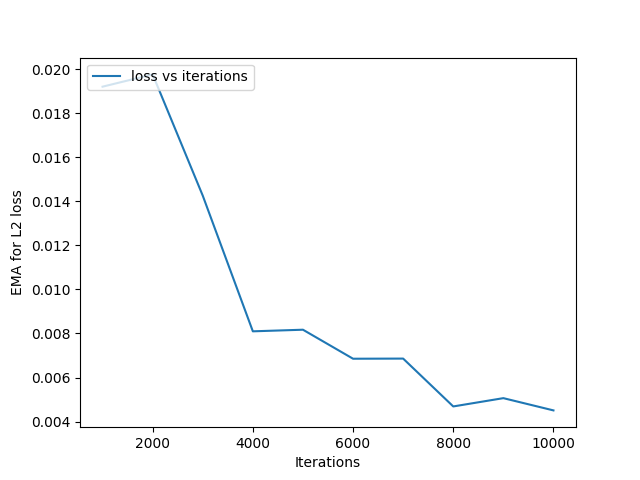
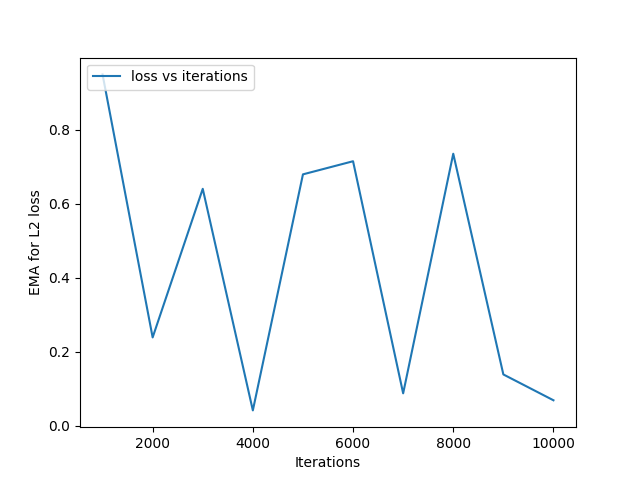
Tried circles dataset with Head-Tail noise model with DDPM. Didnot work. The loss was oscillating , see graphs.

diff --git a/denoising_diffusion_pytorch/denoising_diffusion_pytorch.py b/denoising_diffusion_pytorch/denoising_diffusion_pytorch.py
@@ -7,6 +7,7 @@ from random import random
 from functools import partial
 from collections import namedtuple
 from multiprocessing import cpu_count
+from typing import Union
 
 import numpy as np
 import torch
@@ -323,22 +324,36 @@ class HeadTail(nn.Module):
                                                          nn.Linear(hidden_dim, input_dim, dtype=torch.float64)
                                                          ) for _ in range(time_steps)])
 
-    def forward(self, x, t, self_cond=None):
+    def forward(self, x, t: torch.Tensor, self_cond=None):
         # self_cond is a redundant parameter for compatibility
         # Similar to Impl. in
         # https://github.com/MaximeVandegar/Papers-in-100-Lines-of-Code/blob/main/Deep_Unsupervised_Learning_using_Nonequilibrium_Thermodynamics/diffusion_models.py#L26
         # https://papers-100-lines.medium.com/diffusion-models-from-scratch-tutorial-in-100-lines-of-pytorch-code-5dac9f472f1c
-        x = x.double()
+        assert sum(list(t.shape)) == 1
         assert len(x.shape) == 2
-        t_values = list(t.detach().cpu().numpy())
-        x_out_list = []
+        t_int = t.item()
+        x = x.double()
         h = self.network_head(x)
-        for i, t_val in enumerate(t_values):
-            x_out_single = self.network_tail[t_val](h[i, :])
-            x_out_list.append(x_out_single)
-        x_out_tensor = torch.stack(x_out_list, dim=0)
-        return x_out_tensor
+        out = self.network_tail[t_int](h)
+        return out
 
+
+class SimpleResNet(nn.Module):
+    """
+    Using a simple ResNet model for noise model
+
+    main refs
+    https://blog.paperspace.com/writing-resnet-from-scratch-in-pytorch/
+
+    Unet vs ResNet in image segmentation
+    https://aditi-mittal.medium.com/introduction-to-u-net-and-res-net-for-image-segmentation-9afcb432ee2f
+    """
+
+    def __init__(self, *args, **kwargs):
+        super().__init__(*args, **kwargs)
+
+    def forward(self):
+        pass
 
 
 class Unet2D(nn.Module):
@@ -355,6 +370,13 @@ class Unet2D(nn.Module):
     Articles and Resources about UNet Architecture
     https://medium.com/@kemalpiro/step-by-step-visual-introduction-to-diffusion-models-235942d2f15c
     https://theaisummer.com/diffusion-models/
+
+    Why Unet is used in DDPM models
+    https://huggingface.co/docs/diffusers/api/models/unet
+
+    Unraveling the Temporal Dynamics of the Unet in Diffusion Models
+    https://arxiv.org/pdf/2312.14965.pdf
+
     """
 
     def __init__(
@@ -524,7 +546,8 @@ class Unet2D(nn.Module):
 def extract(a, t, x_shape):
     b, *_ = t.shape
     out = a.gather(-1, t)
-    return out.reshape(b, *((1,) * (len(x_shape) - 1)))
+    final_out = out.reshape(b, *((1,) * (len(x_shape) - 1)))  # added line for debugging
+    return final_out
 
 
 def linear_beta_schedule(timesteps):
@@ -576,9 +599,9 @@ class GaussianDiffusion(nn.Module):
             self,
             noise_model: torch.nn.Module,
             dataset_name: str,
+            objective: str,
             timesteps=1000,
             sampling_timesteps=None,
-            objective='pred_v',
             beta_schedule='sigmoid',
             schedule_fn_kwargs=dict(),
             ddim_sampling_eta=0.,
@@ -602,10 +625,10 @@ class GaussianDiffusion(nn.Module):
             logger.info(f"func. approx. model of class {type(noise_model)} has no "
                         f"random_or_learned_sinusoidal_cond attribute, no assertions to be done")
 
-        self.model = noise_model
+        self.noise_model = noise_model
         self.dataset_name = dataset_name
-        self.channels = getattr(self.model, "channels", None)
-        self.self_condition = getattr(self.model, "self_condition", None)
+        self.channels = getattr(self.noise_model, "channels", None)
+        self.self_condition = getattr(self.noise_model, "self_condition", None)
         self.image_size = kwargs.get("image_size", None)
         self.objective = objective
         assert objective in {'pred_noise', 'pred_x0',
@@ -736,7 +759,7 @@ class GaussianDiffusion(nn.Module):
         return posterior_mean, posterior_variance, posterior_log_variance_clipped
 
     def model_predictions(self, x, t, x_self_cond=None, clip_x_start=False, rederive_pred_noise=False):
-        model_output = self.model(x, t, x_self_cond)
+        model_output = self.noise_model(x, t, x_self_cond)
         maybe_clip = partial(torch.clamp, min=-1., max=1.) if clip_x_start else identity
 
         if self.objective == 'pred_noise':
@@ -773,7 +796,10 @@ class GaussianDiffusion(nn.Module):
     @torch.inference_mode()
     def p_sample(self, x, t: int, x_self_cond=None):
         b, *_, device = *x.shape, self.device
-        batched_times = torch.full((b,), t, device=device, dtype=torch.long)
+        if self.dataset_name in GaussianDiffusion.SKLEARN_DATASET_NAMES and isinstance(self.noise_model, HeadTail):
+            batched_times = torch.full((1,), t, device=device, dtype=torch.long)
+        else:
+            batched_times = torch.full((b,), t, device=device, dtype=torch.long)
         model_mean, _, model_log_variance, x_start = self.p_mean_variance(x=x, t=batched_times, x_self_cond=x_self_cond,
                                                                           clip_denoised=True)
         noise = torch.randn_like(x) if t > 0 else 0.  # no noise if t == 0
@@ -908,15 +934,19 @@ class GaussianDiffusion(nn.Module):
 
     @autocast(enabled=False)
     def q_sample(self, x_start, t, noise=None):
-        noise = default(noise, lambda: torch.randn_like(x_start))
-
+        """
+        Function to do the forward process for the diffusion models
+            - See eq (4) https://arxiv.org/pdf/2006.11239.pdf p. 2
+            -
+        """
+        noise = default(noise, lambda: torch.randn_like(x_start))  # I ~ N(0,1) with given shape
+        sqrt_alpha_cumprod_t = extract(self.sqrt_alphas_cumprod, t, x_start.shape)
+        sqrt_one_minus_alphas_cumprod_t = extract(self.sqrt_one_minus_alphas_cumprod, t, x_start.shape)
         return (
-                extract(self.sqrt_alphas_cumprod, t, x_start.shape) * x_start +
-                extract(self.sqrt_one_minus_alphas_cumprod, t, x_start.shape) * noise
+                sqrt_alpha_cumprod_t * x_start + sqrt_one_minus_alphas_cumprod_t * noise
         )
 
-    def p_losses_flat(self, x_start, t, noise=None, offset_noise_strength=None):
-        b, d = x_start.shape
+    def p_losses_flat(self, x_start, t: torch.tensor, noise=None, offset_noise_strength=None):
         noise = default(noise, lambda: torch.randn_like(x_start))
         # offset noise - https://www.crosslabs.org/blog/diffusion-with-offset-noise
 
@@ -940,7 +970,7 @@ class GaussianDiffusion(nn.Module):
                 x_self_cond = self.model_predictions(x, t).pred_x_start
                 x_self_cond.detach_()
 
-        model_out = self.model(x, t, x_self_cond)
+        model_out = self.noise_model(x, t, x_self_cond)
         if self.objective == 'pred_noise':
             target = noise
         elif self.objective == 'pred_x0':
@@ -972,7 +1002,7 @@ class GaussianDiffusion(nn.Module):
 
         x = self.q_sample(x_start=x_start, t=t, noise=noise)
 
-        # if doing self-conditioning, 50% of the time, predict x_start from current set of times
+        # if doing self-conditioning, 50% of the time, predict x_start from a current set of times
         # and condition with unet with that
         # this technique will slow down training by 25%, but seems to lower FID significantly
 
@@ -982,7 +1012,7 @@ class GaussianDiffusion(nn.Module):
                 x_self_cond = self.model_predictions(x, t).pred_x_start
                 x_self_cond.detach_()
 
-        model_out = self.model(x, t, x_self_cond)
+        model_out = self.noise_model(x, t, x_self_cond)
         if self.objective == 'pred_noise':
             target = noise
         elif self.objective == 'pred_x0':
@@ -1013,7 +1043,11 @@ class GaussianDiffusion(nn.Module):
             assert len(x.shape) == 2
             b, d = x.shape[0], x.shape[1]
             device = x.device
-            t = torch.randint(0, self.num_timesteps, (b,), device=device).long()
+            if isinstance(self.noise_model, HeadTail):
+                t = torch.randint(0, self.num_timesteps, (1,), device=device).long()
+            else:
+                raise NotImplementedError(
+                    f"Not implemented yet : p_losses method for noise_model {type(self.noise_model)}")
             losses = self.p_losses_flat(x, t, *args, **kwargs)
         else:
             raise ValueError(f"Unsupported dataset : {self.dataset_name}")

diff --git a/denoising_diffusion_pytorch/ddpm_sandbox/test/test_diffusion_model.py b/denoising_diffusion_pytorch/ddpm_sandbox/test/test_diffusion_model.py
@@ -52,7 +52,7 @@ def tensor_to_images(sample_tensor: torch.Tensor, dataset_name: str):
 
 
 if __name__ == '__main__':
-    time_steps = 1000
+    time_steps = 50
     device = torch.device('cuda')
     image_size = 32
     num_images = 1
@@ -60,7 +60,8 @@ if __name__ == '__main__':
     batch_size = 32
     # num_train_step = 20_000
     model_name = "ddpm_nn"
-    dataset_name = "mnist6"
+    # dataset_name = "mnist6"
+    dataset_name = "circles"
     model_checkpoint_ext = ".pt"
     checkpoint_metadata_ext = ".json"
     diffusion_model_objective="pred_noise"
@@ -76,7 +77,7 @@ if __name__ == '__main__':
     logger.info(f"Creating Noise Model.")
     # UNet
     if dataset_name in GaussianDiffusion.MNIST_DATASET_NAMES:
-        step_model = Unet2D(
+        noise_model = Unet2D(
             dim=64,
             channels=num_channels,
             dim_mults=(1, 2, 4, 8),
@@ -84,7 +85,7 @@ if __name__ == '__main__':
         ).to(device)
         diffusion_model = GaussianDiffusion(
             dataset_name="mnist6",
-            noise_model=step_model,
+            noise_model=noise_model,
             image_size=image_size,
             timesteps=time_steps,  # number of steps
             auto_normalize=False,
@@ -92,15 +93,15 @@ if __name__ == '__main__':
         ).to(device)
         sample_batch_size = 4
     elif dataset_name in GaussianDiffusion.SKLEARN_DATASET_NAMES:
-        step_model = HeadTail(hidden_dim=128, input_dim=2, time_steps=time_steps).to(device)
-        diffusion_model = GaussianDiffusion(noise_model=step_model, dataset_name=dataset_name,
-                                            timesteps=time_steps).to(device)
+        noise_model = HeadTail(hidden_dim=128, input_dim=2, time_steps=time_steps).to(device)
+        diffusion_model = GaussianDiffusion(noise_model=noise_model, dataset_name=dataset_name,
+                                            timesteps=time_steps, objective=diffusion_model_objective).to(device)
         sample_batch_size = 1024
     else:
         raise ValueError(f"Unknown dataset_name : {dataset_name}")
     # Double-checking if models are actually on cuda
     #   https://discuss.pytorch.org/t/how-to-check-if-model-is-on-cuda/180/2
-    is_unet_model_on_cuda = next(step_model.parameters()).is_cuda
+    is_unet_model_on_cuda = next(noise_model.parameters()).is_cuda
     logger.info(f'If core model is on cuda ? : {is_unet_model_on_cuda}')
 
     is_diffusion_model_on_cuda = next(diffusion_model.parameters()).is_cuda

diff --git a/denoising_diffusion_pytorch/ddpm_sandbox/ddpm_trainer.py b/denoising_diffusion_pytorch/ddpm_sandbox/ddpm_trainer.py
@@ -410,28 +410,28 @@ if __name__ == '__main__':
 
     # This code part is for mnist dataset name
     mnist_num = "6"  # Can be None if we are going to use all mnist numbers
-    dataset_name = f"mnist{mnist_num}"
-    dataset_dir = f"../mnist_image_samples/{mnist_num}"  # Needed only for actual, not synthetic datasets
+    # dataset_name = f"mnist{mnist_num}"
+    # dataset_dir = f"../mnist_image_samples/{mnist_num}"  # Needed only for actual, not synthetic datasets
 
     # This code part is for sklearn dataset
-    # dataset_name = "circles"
+    dataset_name = "circles"
 
     # Diffusion Model parameters
     diffusion_model_name = "ddpm_nn"
     diffusion_model_objective = "pred_noise"
-    noise_model_name = "unet2d"
-    # noise_model_name = "head_tail"  # noise_model_name must be consistent with dataset_name
+    # noise_model_name = "unet2d"
+    noise_model_name = "head_tail"  # noise_model_name must be consistent with dataset_name
     # dataset_name variables if dataset is mnist
 
     checkpoints_dir = f"../models/checkpoints"
     device = torch.device('cuda')
 
     # constants
-    time_steps = 1000  # 1000 for mnist datasets and 40 or 50 for Sklearn datasets
+    time_steps = 50  # 1000 for mnist datasets and 40 or 50 for Sklearn datasets
     image_size = 32
     num_images = 1
     num_channels = 1
-    batch_size = 64
+    batch_size = 2048
     num_train_iterations = 10_000
     debug_flag = False
     pbar_update_freq = 100
@@ -495,7 +495,7 @@ if __name__ == '__main__':
         elif noise_model_name == "fcnn":
             raise NotImplementedError(f"noise model name : {noise_model_name} is not implemented ")
         diffusion_model = GaussianDiffusion(noise_model=noise_model, dataset_name=dataset_name,
-                                            timesteps=time_steps).to(device)
+                                            timesteps=time_steps,objective=diffusion_model_objective).to(device)
         opt = Adam(params=diffusion_model.parameters(), lr=1e-4)
         trainer = DDPmTrainer(diffusion_model=diffusion_model, batch_size=batch_size,
                               num_train_iterations=num_train_iterations, device=device, optimizer=opt,

diff --git a/denoising_diffusion_pytorch/learned_gaussian_diffusion.py b/denoising_diffusion_pytorch/learned_gaussian_diffusion.py
@@ -82,7 +82,7 @@ class LearnedGaussianDiffusion(GaussianDiffusion):
         self.vb_loss_weight = vb_loss_weight
 
     def model_predictions(self, x, t, clip_x_start = False):
-        model_output = self.model(x, t)
+        model_output = self.noise_model(x, t)
         model_output, pred_variance = model_output.chunk(2, dim = 1)
 
         maybe_clip = partial(torch.clamp, min = -1., max = 1.) if clip_x_start else identity
@@ -100,7 +100,7 @@ class LearnedGaussianDiffusion(GaussianDiffusion):
         return ModelPrediction(pred_noise, x_start, pred_variance)
 
     def p_mean_variance(self, *, x, t, clip_denoised, model_output = None, **kwargs):
-        model_output = default(model_output, lambda: self.model(x, t))
+        model_output = default(model_output, lambda: self.noise_model(x, t))
         pred_noise, var_interp_frac_unnormalized = model_output.chunk(2, dim = 1)
 
         min_log = extract(self.posterior_log_variance_clipped, t, x.shape)
@@ -125,7 +125,7 @@ class LearnedGaussianDiffusion(GaussianDiffusion):
 
         # model output
 
-        model_output = self.model(x_t, t)
+        model_output = self.noise_model(x_t, t)
 
         # calculating kl loss for learned variance (interpolation)
 

diff --git a/denoising_diffusion_pytorch/weighted_objective_gaussian_diffusion.py b/denoising_diffusion_pytorch/weighted_objective_gaussian_diffusion.py
@@ -39,7 +39,7 @@ class WeightedObjectiveGaussianDiffusion(GaussianDiffusion):
         self.pred_x_start_loss_weight = pred_x_start_loss_weight
 
     def p_mean_variance(self, *, x, t, clip_denoised, model_output = None):
-        model_output = self.model(x, t)
+        model_output = self.noise_model(x, t)
 
         pred_noise, pred_x_start, weights = model_output.split(self.split_dims, dim = 1)
         normalized_weights = weights.softmax(dim = 1)
@@ -60,7 +60,7 @@ class WeightedObjectiveGaussianDiffusion(GaussianDiffusion):
         noise = default(noise, lambda: torch.randn_like(x_start))
         x_t = self.q_sample(x_start = x_start, t = t, noise = noise)
 
-        model_output = self.model(x_t, t)
+        model_output = self.noise_model(x_t, t)
         pred_noise, pred_x_start, weights = model_output.split(self.split_dims, dim = 1)
 
         # get loss for predicted noise and x_start

diff --git a/denoising_diffusion_pytorch/version.py b/denoising_diffusion_pytorch/version.py
@@ -1,1 +1,1 @@
-__version__ = '1.9.6'
+__version__ = '1.6.6'
